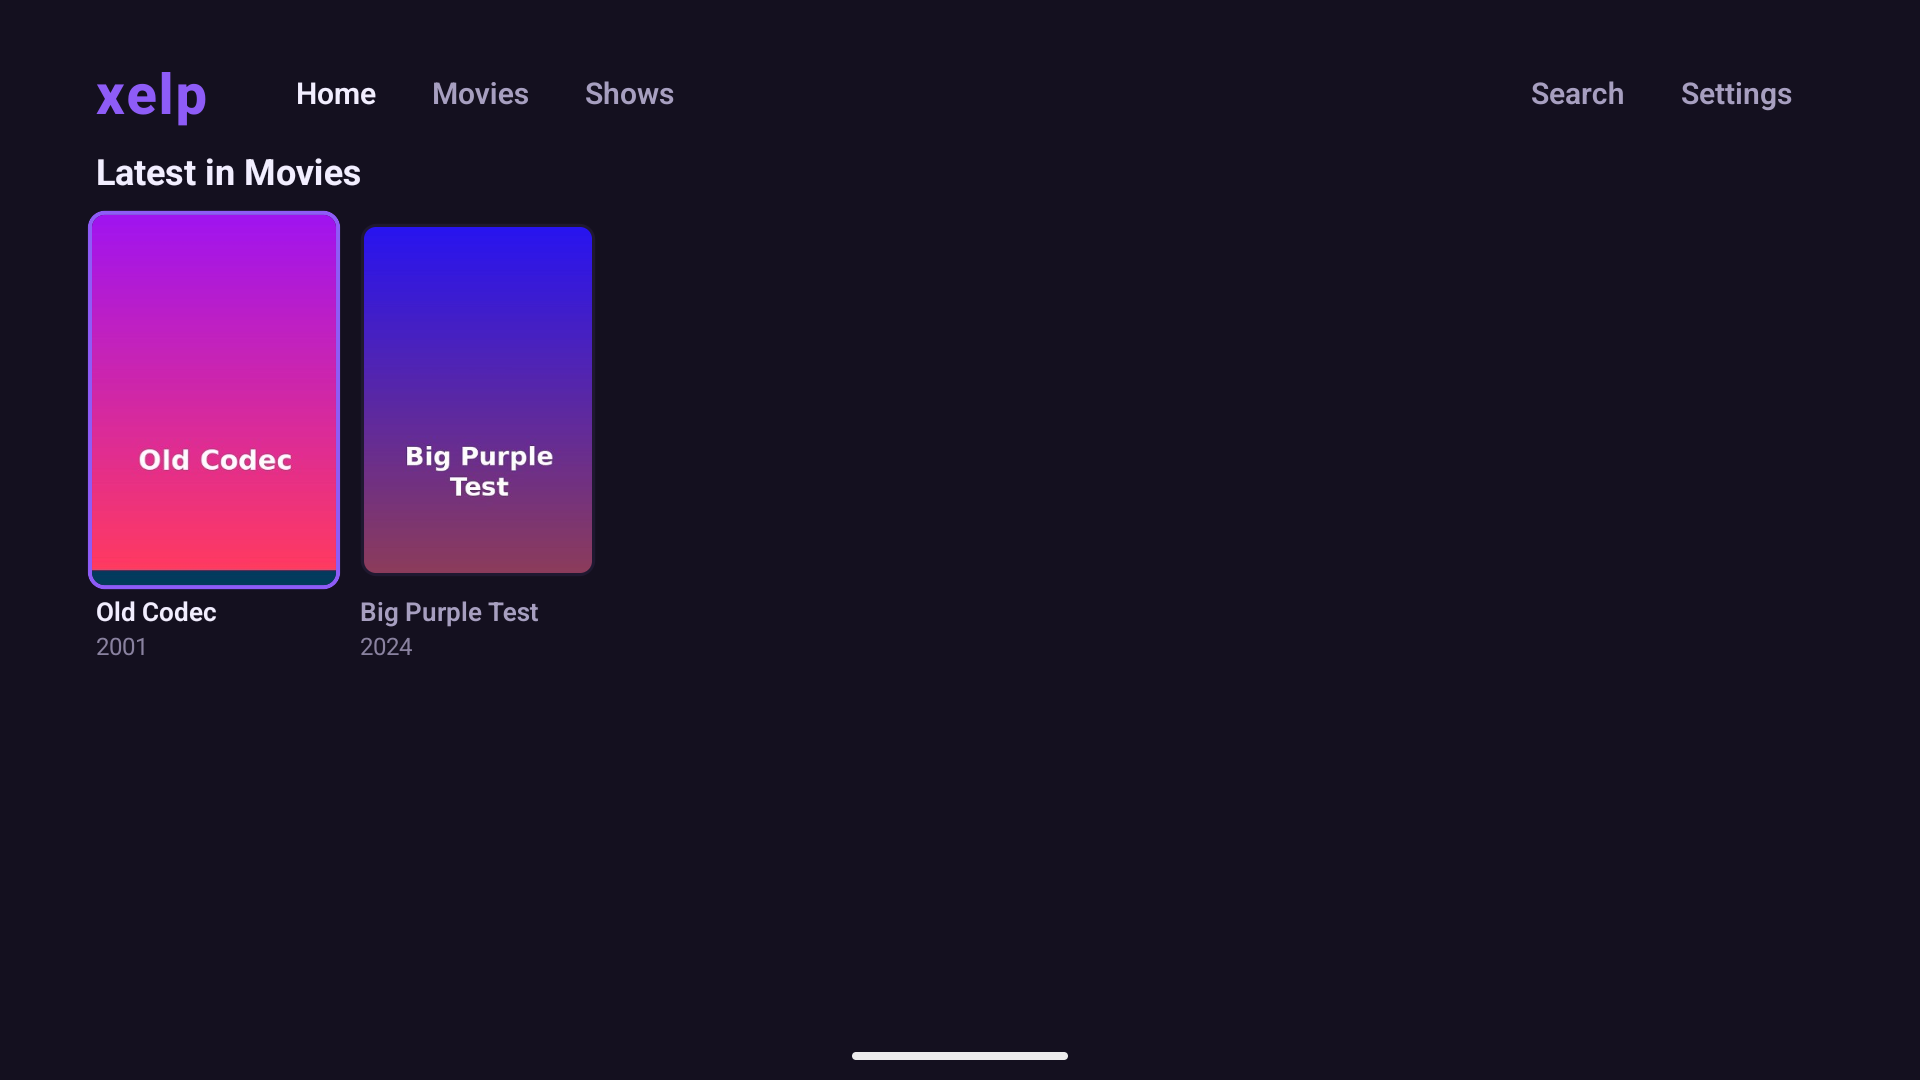
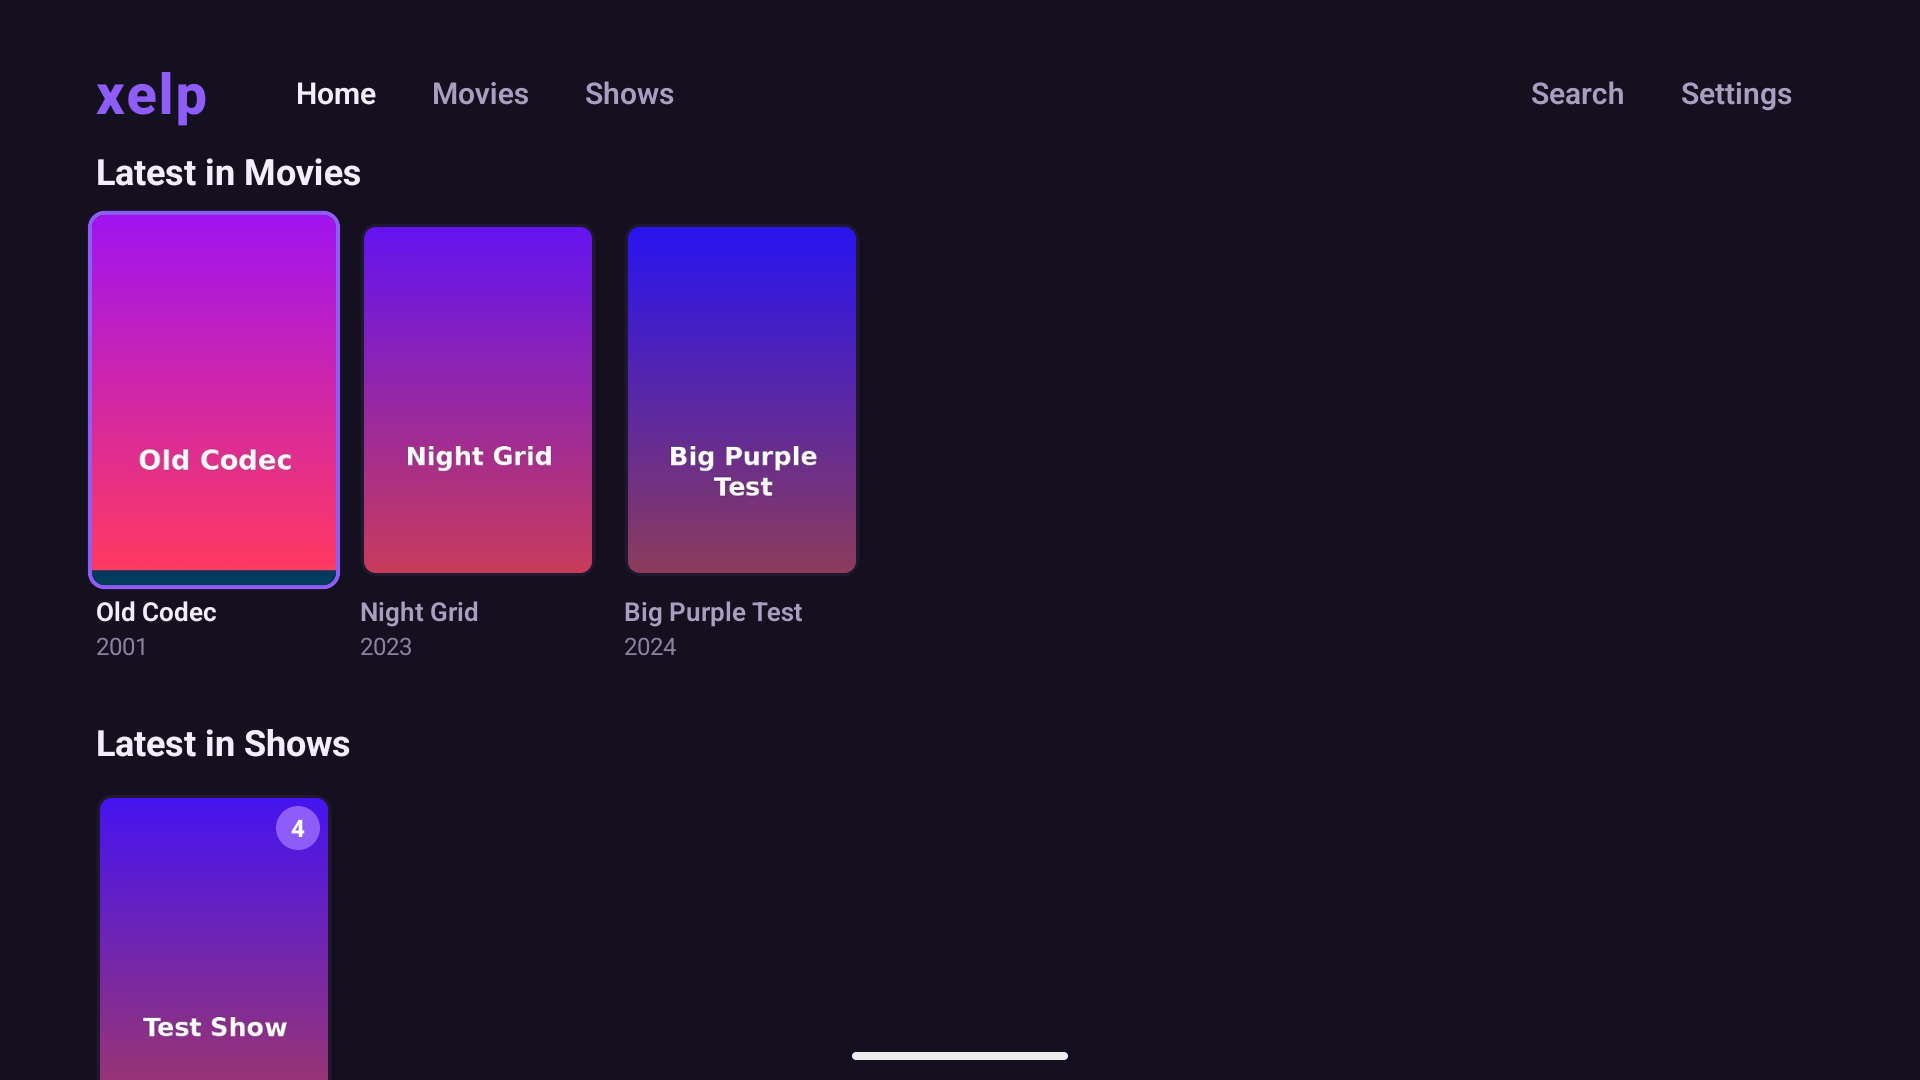
Document the app and refresh the smoke test screenshots
Add docs/ARCHITECTURE.md, which describes the Backend, PlayerEngine and PlatformServices seams,
the Jellyfin implementation, the app-drawn subtitles, state and navigation, the TV focus model,
the testing layers and the network policy. Rewrite the README so that it explains how to run
the local Jellyfin container, the checks, the debug build, the emulator and the smoke test, and
how adb is kept away from physical devices.

Refresh the screenshots from the latest smoke test run. Add screenshots of an AVI that the server
transcodes and of a direct-played HEVC 10-bit MKV with embedded subtitles. Replace a bitwise
midpoint in the cue search to satisfy ESLint.

Changed region(s): [[0.1875, 0.1833, 0.4688, 0.6111], [0.0312, 0.7333, 0.1875, 1.0], [0.0312, 0.6722, 0.1875, 0.7028]]

diff --git a/src/player/webvtt.ts b/src/player/webvtt.ts
@@ -63,7 +63,7 @@ export function cueTextAt(cues: Cue[], positionMs: number): string {
   let hi = cues.length - 1;
   let last = -1;
   while (lo <= hi) {
-    const mid = (lo + hi) >> 1;
+    const mid = Math.floor((lo + hi) / 2);
     if (cues[mid].startMs <= positionMs) {
       last = mid;
       lo = mid + 1;

diff --git a/docs/ARCHITECTURE.md b/docs/ARCHITECTURE.md
@@ -1,0 +1,153 @@
+# xelpfin architecture
+
+xelpfin is a single React Native (react-native-tvos 0.81) TypeScript code base. Everything that
+depends on the host OS or on the media server sits behind one of three interfaces, so screens and
+state can be reused unchanged on Vega OS:
+
+```
+            ┌───────────────────────── src/ui (screens, components, theme) ─────────────────────────┐
+            │                         src/state (AppState, navigation, settings)                     │
+            └──────────────┬──────────────────────────┬──────────────────────────┬─────────────────┘
+                           │                          │                          │
+                 Backend / ServerConnector      PlayerEngine              PlatformServices
+                    (src/backend)               (src/player)               (src/platform)
+                           │                          │                          │
+            JellyfinBackend │ MockBackend   VideoEngine (react-native-video)   firetv │ vega (stub)
+```
+
+## Backend (`src/backend`)
+
+`Backend.ts` defines two interfaces:
+
+- `ServerConnector` is used before sign-in: `discover`, `probe(address)`, `publicUsers`, `login`,
+  the Quick Connect calls (`quickConnectStart`, `quickConnectPoll`, `quickConnectLogin`), and
+  `open(session)`, which returns a `Backend`.
+- `Backend` is one signed-in session. It covers libraries, paged `items(query)`, `item(id)`
+  detail, `search`, `resume` (Continue Watching), `nextUp`, `latest`, `seasons`, `episodes`,
+  `imageUrl`, `playback(request, caps)` returning a `PlaybackPlan`, progress reporting
+  (`reportStart`, `reportProgress`, `reportStop`), `setPlayed` and `setFavorite`.
+
+All types in `types.ts` are backend-neutral. Errors are `BackendError` with a `kind` (network,
+auth, notFound, server, unsupported, timeout), and the UI maps that to its error views.
+
+### Jellyfin implementation (`src/backend/jellyfin`)
+
+- `http.ts` is a thin fetch wrapper. It builds the `Authorization: MediaBrowser Client="xelpfin",
+  Device=..., DeviceId=..., Version=..., Token=...` header, applies timeouts, and maps HTTP
+  failures to `BackendError`. `fetch` is injectable, which is how the unit tests mock it.
+- `discovery.ts` sends `Who is JellyfinServer?` to UDP port 7359 through the platform's
+  `UdpTransport` (a broadcast plus optional unicast hints), parses the JSON replies, and
+  de-duplicates them by server id.
+- `deviceProfile.ts` turns `DeviceCapabilities` into a Jellyfin DeviceProfile. Direct play is
+  allowed for every container ExoPlayer demuxes with decodable codecs. Anything else transcodes to
+  HLS (MPEG-TS) with h264, or hevc when the device decodes it, plus aac or ac3.
+- `playback.ts` posts `/Items/{id}/PlaybackInfo` with that profile and then makes its own direct
+  play check (`directPlayBlockers`), so the UI can say why a stream is transcoded. It builds
+  either a static stream URL (direct play) or the server's HLS transcoding URL. Text subtitle
+  tracks are always delivered as server-converted WebVTT URLs. Image subtitles are embedded, or
+  burned in when the user picks them and the player cannot render them.
+- `dto.ts` maps Jellyfin DTOs to the neutral types (ticks to milliseconds, image URLs, user data).
+
+### Mock backend
+
+`mock/MockBackend.ts` holds an in-memory library used by the UI tests (`__tests__/App.test.tsx`)
+and for working on the UI without a server.
+
+## Player (`src/player`)
+
+- `PlayerEngine` is the seam between `PlayerScreen` and the media stack. It has a `View`
+  component that takes a `PlaybackPlan`, `paused` and track indexes, reports load, progress,
+  buffering, end and error, and exposes `seek`. It also has `canSwitchInStream`, which tells the
+  screen whether a track change can happen inside the current stream or needs a new plan from the
+  backend (for example another audio track in a transcode, or burning in image subtitles).
+- `rnv/VideoEngine.tsx` is the Fire TV engine on react-native-video 6 (ExoPlayer / Media3).
+  `trackSelection.ts` maps backend stream indexes onto ExoPlayer's tracks.
+- `capabilities.ts` converts the Android decoder list (`MediaCodecList`, read by the platform
+  module) into `DeviceCapabilities`, including the maximum resolution and 10-bit support per codec.
+- Subtitles: text subtitles are drawn by the app, not by the native player.
+  - `useSubtitleCues` fetches the WebVTT for the selected track, `webvtt.ts` parses it (the parser
+    also accepts SRT), and `ui/components/SubtitleText` draws the cue for the current position.
+  - The text sits above the controls when they are showing.
+  - The reason: react-native-video 6 on Android builds its progressive and HLS media sources
+    directly, and those drop side-loaded subtitle configurations, so a side-loaded track never
+    reaches ExoPlayer. Drawing the cues in shared code also gives Vega the same subtitles,
+    styling and switching without native work.
+
+## Platform (`src/platform`)
+
+`PlatformServices` provides:
+
+- `device` (model, OS, ABIs, whether it is an emulator or a Fire TV),
+- `storage` (a key/value store),
+- `udp` (a discovery transport, which is optional),
+- `capabilities()` (the decoders),
+- `discoveryHints()` and `addressHint()`.
+
+- `firetv/` implements it with AsyncStorage and a small Kotlin module (`android/app/src/main/java/com/xelpfin/app/platform/XelpfinPlatformModule.kt`).
+  The module sends and receives UDP for discovery and lists the decoders through `MediaCodecList`.
+  On the emulator it adds `10.0.2.2` as a unicast discovery hint, because broadcasts do not reach
+  the host there.
+- `vega/` is the boundary stub. It keeps storage in memory, has no UDP, and reports the baseline
+  codec set. Its header comment lists what a Vega port has to supply.
+
+Nothing outside `src/platform` imports `NativeModules`.
+
+## State (`src/state`)
+
+- `AppState.tsx` holds the connector, the current `Backend`, settings and the known servers. It
+  restores the last session at startup and validates it with the server.
+- `settings.ts` and `servers.ts` persist through `PlatformServices.storage`.
+- `trackDefaults.ts` picks the initial audio and subtitle tracks from the settings: the preferred
+  language, and a subtitle mode of off, forced only, or always.
+- `navigation.tsx` is a minimal stack navigator for TV. Screens below the top stay mounted but
+  hidden, so their data, scroll position and last focused element survive a round trip to a
+  detail page. The player is always on top and unmounts when it is popped, which stops playback.
+  The hardware BACK key pops the stack.
+
+## UI (`src/ui`)
+
+- `theme.ts` defines the 10-foot design tokens: a dark surface, the purple accent `#8E5CF7`, a type
+  scale (34 / 24 / 18 / 15 / 13 dp) and spacing. The emulator and Fire TV both run at 960 x 540 dp.
+- `components/Focusable` is the base of every D-pad target. It tracks focus for styling and is
+  focusable only while its screen is on top. It remembers the last focused element per screen and
+  restores it, and it collapses the double `onPress` that react-native-tvos fires for one remote
+  "select".
+- `MediaRow` and `Card` draw horizontal rows on virtualized `FlatList`s with fixed item layout.
+  Library grids are paged. `TopBar` is a `TVFocusGuideView` that traps LEFT and RIGHT so focus
+  cannot leave the tab row sideways. `OptionPicker` is the modal list used for tracks, sort order
+  and settings.
+- Screens:
+  - `ServerSelectScreen`: discovery results and a manual address.
+  - `LoginScreen`: user tiles, password and Quick Connect.
+  - `HomeScreen`: Continue Watching, Next Up and latest per library.
+  - `LibraryScreen`: grid with sort, letter and unwatched filters.
+  - `DetailScreen`: movie, series, season and episode pages.
+  - `SearchScreen`.
+  - `PlayerScreen`.
+  - `SettingsScreen`.
+  - Every screen has loading, error (with retry) and empty states.
+
+### Remote input on the player
+
+react-native-tvos delivers D-pad presses as key-up events, and a long press as repeated
+key-downs. `PlayerScreen` acts on key-up and uses the repeats to seek faster. While the controls
+are hidden, a full-screen `Focusable` ("player-surface") holds focus so that remote keys still
+reach the screen. Media keys (play/pause, rewind, fast forward) work in every overlay state.
+
+## Testing
+
+- Unit tests (`__tests__`, Jest) cover the HTTP layer, discovery parsing, the device profile and
+  direct play decision, the Jellyfin backend against a fake fetch, track selection, the WebVTT
+  parser, settings, the navigator, and an app render against the mock backend.
+- Integration tests (`integration/`) run the real `JellyfinBackend` against the local Jellyfin
+  container. They cover discovery over UDP, password and Quick Connect sign-in, browsing, search,
+  direct play and transcode decisions for each sample file, progress, Continue Watching, mark
+  watched, Next Up and favourites.
+- `scripts/smoke.sh` is the end-to-end test on the emulator. It drives the APK with key events,
+  checks the server's view of the session (item, pause state, play method), and saves screenshots.
+
+## Privacy
+
+The only network peers are the Jellyfin server the user selects and the UDP broadcast used to
+find it. There is no analytics, crash reporting, update check or account service. The Android
+manifest requests only `INTERNET`. Cleartext HTTP is allowed so that LAN servers without TLS work.

diff --git a/README.md b/README.md
@@ -1,97 +1,102 @@
-This is a new [**React Native**](https://reactnative.dev) project, bootstrapped using [`@react-native-community/cli`](https://github.com/react-native-community/cli).
+# xelpfin
 
-# Getting Started
+A 10-foot media client for Fire TV, written in React Native (react-native-tvos) and TypeScript,
+with Jellyfin as its only backend. The shared code is meant to carry over to Vega OS later; the
+platform-specific parts sit behind small interfaces (see `docs/ARCHITECTURE.md`).
 
-> **Note**: Make sure you have completed the [Set Up Your Environment](https://reactnative.dev/docs/set-up-your-environment) guide before proceeding.
+- App id `com.xelpfin.app`, label `xelpfin`, purple accent `#8E5CF7`.
+- Talks only to the Jellyfin server the user picks. There is no telemetry, no account service and
+  no other network traffic.
+- Personal, local-network use.
 
-## Step 1: Start Metro
+## What it does
 
-First, you will need to run **Metro**, the JavaScript build tool for React Native.
+- Finds Jellyfin servers on the LAN through UDP discovery on port 7359, or connects to a typed address.
+- Signs in with a user name and password, or with Quick Connect.
+- Home shows Continue Watching, Next Up and the latest items of each library. There are tabs for
+  each library, search and settings.
+- Library browse uses paged grids with sorting. Detail pages cover movies, series, seasons and
+  episodes, and support play, resume, mark watched and favourite.
+- Playback chooses between direct play and an HLS transcode based on what the device's decoders
+  report. It reports progress to the server, supports seek with the D-pad, and lets you choose
+  audio and subtitle tracks. When autoplay is on, the next episode plays automatically.
+- Settings cover the maximum streaming quality, the subtitle mode, the preferred language,
+  autoplay, the playback info overlay, switching user and changing server.
 
-To start the Metro dev server, run the following command from the root of your React Native project:
+## Requirements
 
-```sh
-# Using npm
-npm start
+- Node 22 and npm 10. Dependencies are pinned in `package-lock.json`, so `npm ci` works from a
+  warm npm cache.
+- JDK 17 or newer (built with 21) and the Android SDK in `~/Android/Sdk`, or set `ANDROID_HOME`.
+  You need platform 36, build-tools 36 and an x86_64 system image for the emulator.
+- Docker, for the local Jellyfin test server.
+- ffmpeg and Python 3 with Pillow, to generate the sample media and poster art.
 
-# OR using Yarn
-yarn start
-```
-
-## Step 2: Build and run your app
-
-With Metro running, open a new terminal window/pane from the root of your React Native project, and use one of the following commands to build and run your Android or iOS app:
-
-### Android
-
-```sh
-# Using npm
-npm run android
-
-# OR using Yarn
-yarn android
-```
-
-### iOS
-
-For iOS, remember to install CocoaPods dependencies (this only needs to be run on first clone or after updating native deps).
-
-The first time you create a new project, run the Ruby bundler to install CocoaPods itself:
+## Everything runs locally
 
 ```sh
-bundle install
+npm ci
+
+# 1. Local Jellyfin 12.1 in Docker, bound to 127.0.0.1 only (8096/tcp, 7359/udp).
+#    The first run generates sample media with ffmpeg and stores its data in
+#    ../work/jellyfin-test. It also completes the setup wizard and creates the
+#    libraries and users: admin "xelpfin" / "xelpfin-pass" and "guest" with no password.
+npm run jellyfin:up
+
+# 2. Checks.
+npm run typecheck
+npm run lint
+npm test                    # unit tests (mocked fetch and UDP)
+npm run test:integration    # against the local Jellyfin container
+
+# 3. Debug APK. The JS bundle is embedded, so Metro is not needed.
+#    Output: android/app/build/outputs/apk/debug/app-debug.apk
+npm run apk:debug
+
+# 4. Android TV-style emulator (AVD "xelpfin_tv": 1080p, D-pad, x86_64, headless).
+npm run emu:start
+
+# 5. End-to-end smoke test on the emulator. It installs the APK and drives the app
+#    with D-pad key events. Screenshots go to docs/screens.
+npm run smoke               # or: scripts/smoke.sh --no-install
 ```
 
-Then, and every time you update your native dependencies, run:
+Inside the emulator, the host's Jellyfin is reachable at `http://10.0.2.2:8096`. UDP broadcasts
+do not leave the emulator's virtual network, so on the emulator only, discovery also asks
+10.0.2.2 directly.
 
-```sh
-bundle exec pod install
+Tear down with `npm run jellyfin:down` (this keeps the data directory) and
+`scripts/emulator.sh stop`.
+
+### adb safety
+
+Every script passes an explicit emulator serial (`-s emulator-5554` by default; override it with
+`XELPFIN_SERIAL`). `smoke.sh` refuses to run against any serial that does not start with
+`emulator-`. A physical Fire TV can be connected to the same adb server without being touched.
+
+### Development with Metro
+
+`npm start` and `npm run android` work as in any React Native project. For TV work, the embedded
+bundle plus `npm run apk:debug` (about 10 s incremental) is usually simpler.
+
+## Layout
+
+```
+src/backend    Backend + ServerConnector interfaces, Jellyfin implementation, mock backend
+src/player     PlayerEngine interface, react-native-video engine, codec capabilities, WebVTT subtitles
+src/platform   PlatformServices interface, Fire TV adapter (Kotlin module + AsyncStorage), Vega stub
+src/state      app state (session, servers, settings), stack navigator, track defaults
+src/ui         theme, focus-aware components, screens
+__tests__      unit tests            integration/   tests against local Jellyfin
+scripts        Jellyfin, media, emulator and smoke test scripts
+docs           ARCHITECTURE.md, screens/ (smoke test screenshots)
 ```
 
-For more information, please visit [CocoaPods Getting Started guide](https://guides.cocoapods.org/using/getting-started.html).
+## Smoke test screenshots
 
-```sh
-# Using npm
-npm run ios
-
-# OR using Yarn
-yarn ios
-```
-
-If everything is set up correctly, you should see your new app running in the Android Emulator, iOS Simulator, or your connected device.
-
-This is one way to run your app — you can also build it directly from Android Studio or Xcode.
-
-## Step 3: Modify your app
-
-Now that you have successfully run the app, let's make changes!
-
-Open `App.tsx` in your text editor of choice and make some changes. When you save, your app will automatically update and reflect these changes — this is powered by [Fast Refresh](https://reactnative.dev/docs/fast-refresh).
-
-When you want to forcefully reload, for example to reset the state of your app, you can perform a full reload:
-
-- **Android**: Press the <kbd>R</kbd> key twice or select **"Reload"** from the **Dev Menu**, accessed via <kbd>Ctrl</kbd> + <kbd>M</kbd> (Windows/Linux) or <kbd>Cmd ⌘</kbd> + <kbd>M</kbd> (macOS).
-- **iOS**: Press <kbd>R</kbd> in iOS Simulator.
-
-## Congratulations! :tada:
-
-You've successfully run and modified your React Native App. :partying_face:
-
-### Now what?
-
-- If you want to add this new React Native code to an existing application, check out the [Integration guide](https://reactnative.dev/docs/integration-with-existing-apps).
-- If you're curious to learn more about React Native, check out the [docs](https://reactnative.dev/docs/getting-started).
-
-# Troubleshooting
-
-If you're having issues getting the above steps to work, see the [Troubleshooting](https://reactnative.dev/docs/troubleshooting) page.
-
-# Learn More
-
-To learn more about React Native, take a look at the following resources:
-
-- [React Native Website](https://reactnative.dev) - learn more about React Native.
-- [Getting Started](https://reactnative.dev/docs/environment-setup) - an **overview** of React Native and how setup your environment.
-- [Learn the Basics](https://reactnative.dev/docs/getting-started) - a **guided tour** of the React Native **basics**.
-- [Blog](https://reactnative.dev/blog) - read the latest official React Native **Blog** posts.
-- [`@facebook/react-native`](https://github.com/facebook/react-native) - the Open Source; GitHub **repository** for React Native.
+`docs/screens/01-servers.png` through `12-settings.png` come from `scripts/smoke.sh`. The test
+covers server discovery, login, home, detail, playback (with the server confirming direct play),
+the controls, the subtitle picker, subtitles on screen, Continue Watching, search, the Shows
+library and settings. `13-transcode-old-codec.png` shows an msmpeg4 AVI that the server
+transcodes to HLS. `14-hevc10-embedded-subs.png` shows a direct-played HEVC 10-bit MKV with
+embedded subtitles.
